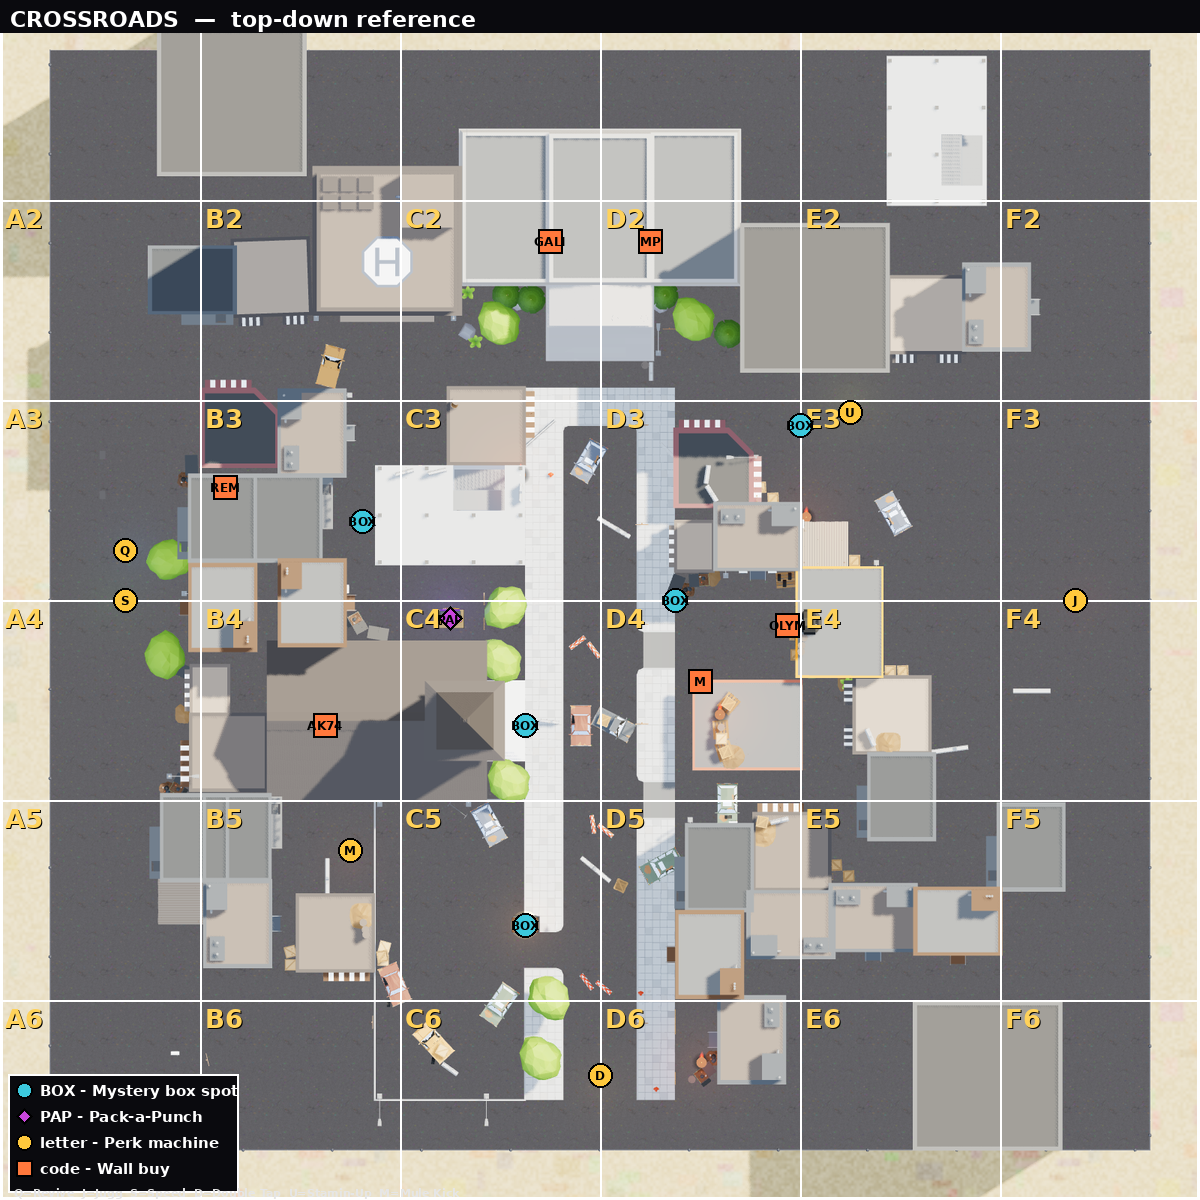
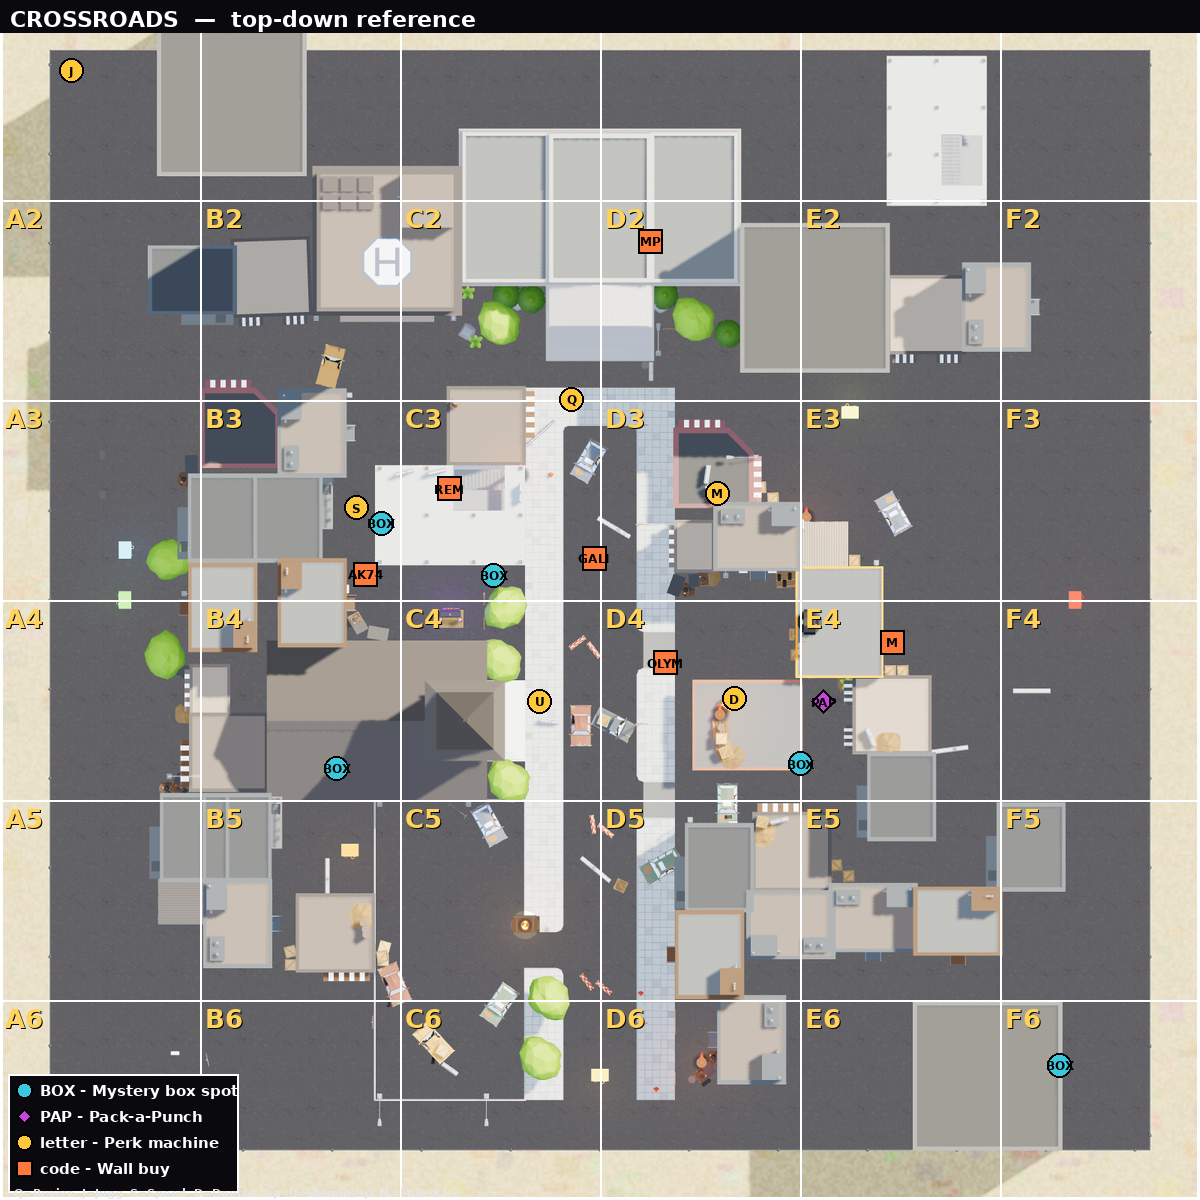
Apply Map Editor placements to Crossroads (box spots, buys, perks, PAP)
Coordinates from a Map Editor export: BOX_SPOTS, both equip buys, five
of six wall buys, all six perk machines, and Pack-a-Punch moved from
their original hand-placed spots to a layout positioned in-editor.

Left the mp5 wall buy at its original position (4,2.0,-28.72,0) rather
than the exported (-17.08,2,147.2,2.94) - z=147.2 is far outside the
map (BND=44), almost certainly a drag-precision glitch where the
ground-raycast went nearly parallel to the plane and shot out to an
extreme point rather than an intentional placement.

Crossroads Day and Night share buildCrossroads() for all of this (only
lighting/ash/fire differ by the night flag), so this layout applies to
both map variants, not just the night one the export was taken from.

Regenerated the annotated pin overlays for both variants.

diff --git a/public/index.html b/public/index.html
@@ -2673,11 +2673,11 @@ function buildCrossroads(night){
     torch.intensity=0.16;
   }
   SPAWN_AT.set(-38,0,-10); SPAWN_YAW=-Math.PI/2;
-  addEquipBuy('grenade',SPAWN_AT.x-1.8,0,SPAWN_AT.z-1.6,SPAWN_YAW+Math.PI);
-  addEquipBuy('claymore',SPAWN_AT.x-1.8,0,SPAWN_AT.z+1.6,SPAWN_YAW+Math.PI);
+  addEquipBuy('grenade',0.61,0,-42.06,6.28);
+  addEquipBuy('claymore',4.23,0,-42.24,6.28);
   SPAWNS=[[-13.6,-37.9],[14,-40],[-21,-37.7],[20,-36],[-36,-20],[38,-20],
     [-36,0],[36,0],[-37.9,20.7],[40,20],[-20,36],[20,36]];
-  BOX_SPOTS=[[6,0],[-6,10],[-19,-6.3],[-6,26],[16,-14]];
+  BOX_SPOTS=[[-8.5,-2],[16.05,13.12],[-21.05,13.46],[36.79,37.2],[-17.5,-6.13]];
 
   if(night){
     worldRoot.add(new THREE.HemisphereLight(0x2a3a5c,0x141018,0.5));
@@ -3102,22 +3102,22 @@ function buildCrossroads(night){
   chain(-BND,-BND,BND,-BND); chain(-BND,BND,BND,BND);
 
   /* ---- buys ---- */
-  addWallBuy('m14',8.0,2.0,6.5,Math.PI/2);
-  addWallBuy('ak74u',-22,2.0,10,-Math.PI/2);
+  addWallBuy('m14',23.39,2,3.36,-1.61);
+  addWallBuy('ak74u',-18.78,2,-2.08,1.6);
   addWallBuy('mp5',4,2.0,-28.72,0);
-  addWallBuy('galil',-4,2.0,-28.72,Math.PI);
-  addWallBuy('olympia',15,2.0,2,Math.PI/2);
-  addWallBuy('rem870',-30,2.0,-9,Math.PI/2);
+  addWallBuy('galil',-0.48,2,-3.34,1.47);
+  addWallBuy('olympia',5.21,2,5.03,-1.57);
+  addWallBuy('rem870',-12.08,2,-8.88,3.11);
   addAmmoBuy('m1911',3,2.0,-3,0,250);
   addAmmoBuy('m4a1',-3,2.0,4,Math.PI,400);
 
-  addPerkMachine('revive',-38,-4,0,-Math.PI/2);
-  addPerkMachine('jugg',38,0,0,-Math.PI/2);
-  addPerkMachine('speed',-38,0,0,Math.PI/2);
-  addPerkMachine('dtap',0,38,0,Math.PI);
-  addPerkMachine('stamin',20,-15,0,0);
-  addPerkMachine('mule',-20,20,0,Math.PI);
-  addPackAPunch(-12,1.5,0);
+  addPerkMachine('revive',-2.26,-16.06,0,0);
+  addPerkMachine('jugg',-42.29,-42.34,0,-2.43);
+  addPerkMachine('speed',-19.48,-7.38,0,1.57);
+  addPerkMachine('dtap',10.72,7.91,0,3.14);
+  addPerkMachine('stamin',-4.83,8.12,0,1.6);
+  addPerkMachine('mule',9.36,-8.54,0,-1.6);
+  addPackAPunch(17.88,8.15,0);
 
   if(night){
     /* ---- ash in the air, same drifting-particle setup as Town's night sky ---- */
